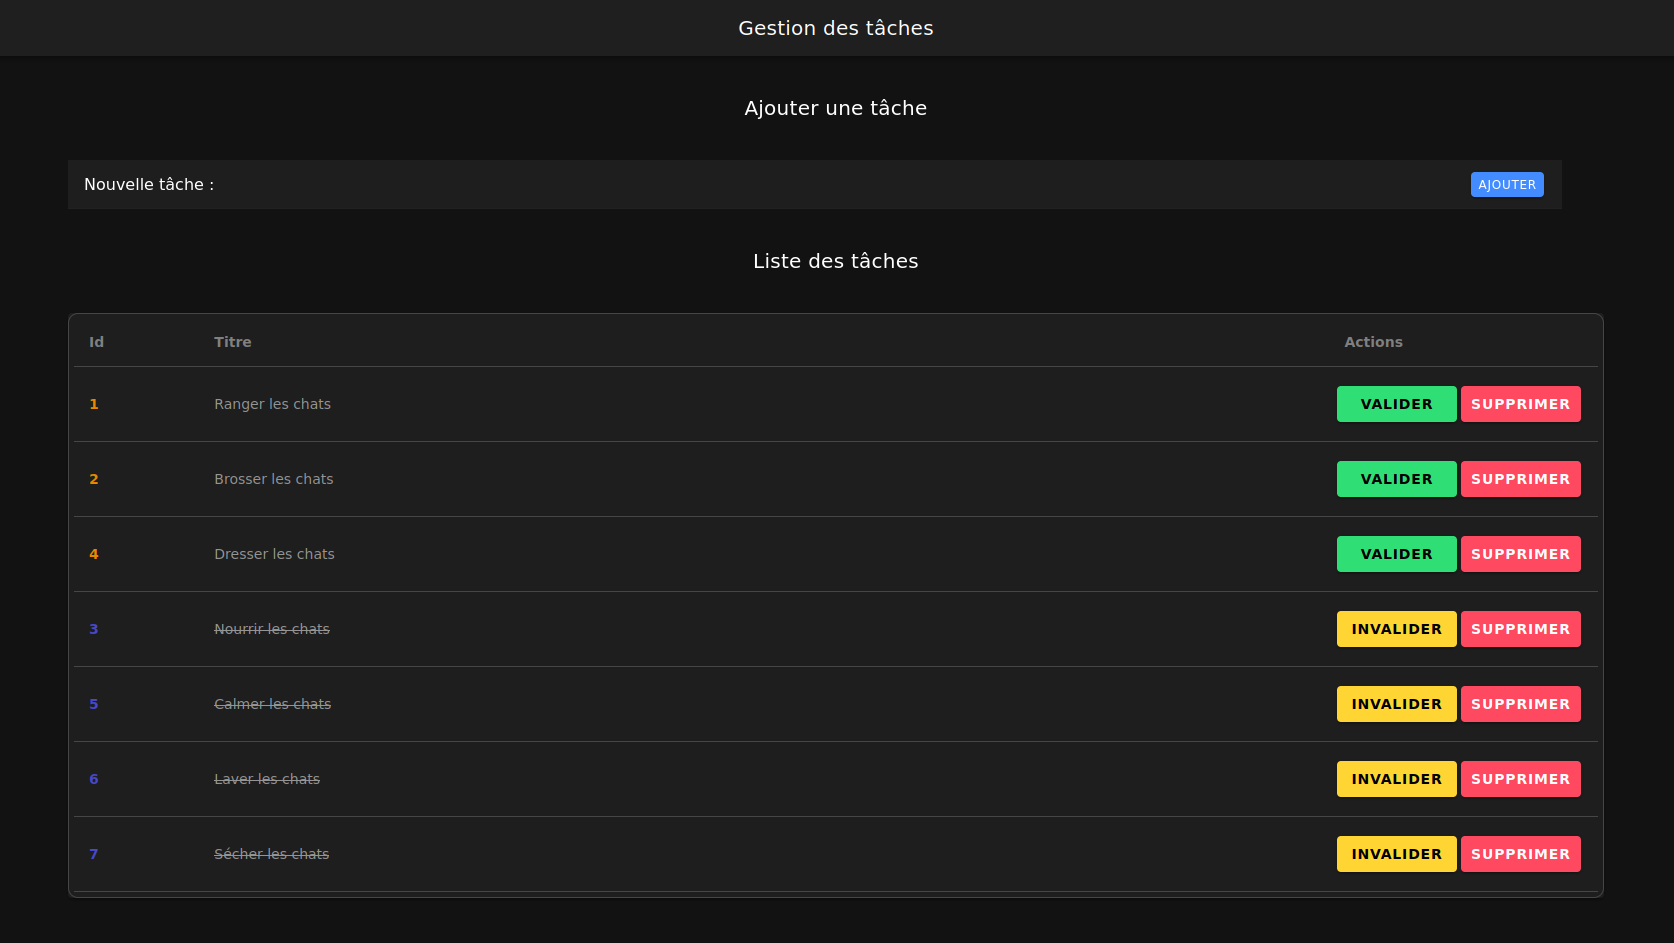
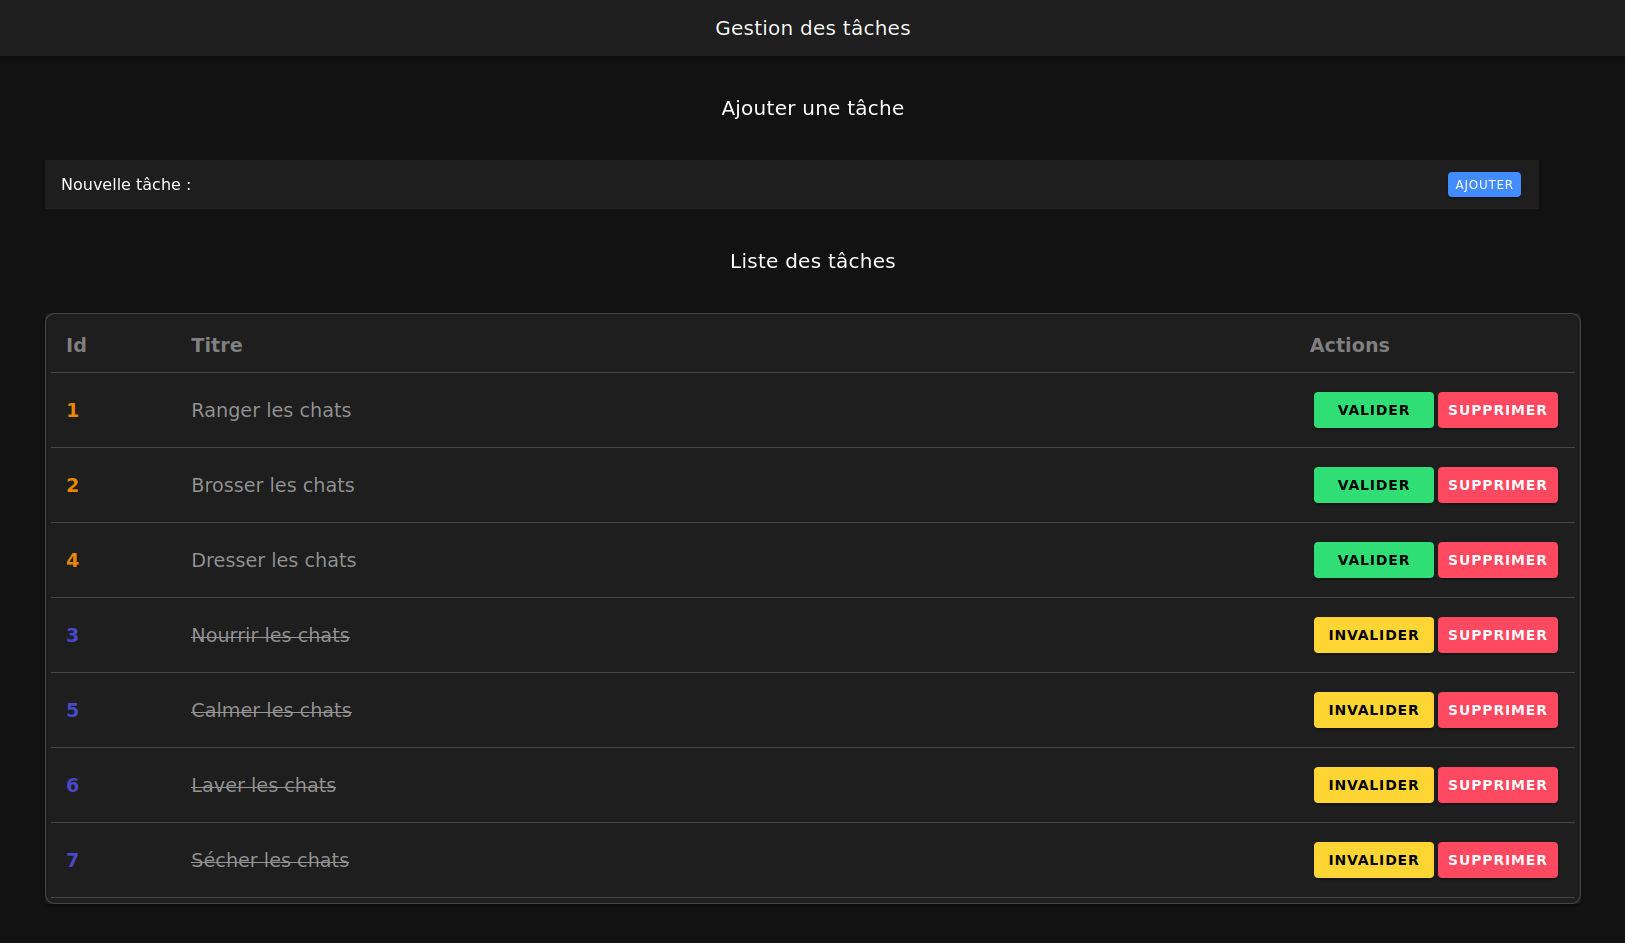
css +++++

diff --git a/src/pages/Home.tsx b/src/pages/Home.tsx
@@ -11,7 +11,8 @@ import {
   IonGrid,
   IonRow,
   IonCol,
-  IonCard
+  IonCard,
+  IonText
 } from "@ionic/react";
 //import ExploreContainer from '../components/ExploreContainer';
 import "./Home.css";
@@ -126,11 +127,6 @@ const Home: React.FC = () => {
         </IonToolbar>
       </IonHeader>
       <IonContent fullscreen>
-        <IonHeader collapse="condense">
-          <IonToolbar>
-            <IonTitle size="large">Gestion des tâches</IonTitle>
-          </IonToolbar>
-        </IonHeader>
         <IonTitle size="large" className="text-center title-margin">Ajouter une tâche</IonTitle>
         <IonItem className="form-new-task">
           <IonLabel>Nouvelle tâche :</IonLabel>
@@ -143,16 +139,16 @@ const Home: React.FC = () => {
           </IonButton>
         </IonItem>
         <IonTitle size="large" className="text-center title-margin">Liste des tâches</IonTitle>
-        <IonCard className="div-tasks">
+        <IonCard className="card-tasks">
           <IonGrid className="table-tasks">
             <IonRow className="rows-tasks">
-              <IonCol size="1"><strong className="text-grey">Id</strong></IonCol>
-              <IonCol size="5"><strong className="text-grey">Titre</strong></IonCol>
-              <IonCol className="actions-col-head"><strong className="text-grey">Actions</strong></IonCol>
+              <IonCol size="1"><IonText className="font-bold text-grey">Id</IonText></IonCol>
+              <IonCol size="5"><IonText className="font-bold text-grey">Titre</IonText></IonCol>
+              <IonCol className="actions-col-head"><IonText className="font-bold text-grey">Actions</IonText></IonCol>
             </IonRow>
             {tasks.map((task) => (
               <IonRow className="rows-tasks" key={task.id}>
-                <IonCol size="1"><strong  className={task.completed ? "text-blue" : "text-orange"}>{task.id}</strong></IonCol>
+                <IonCol size="1"><IonText  className={task.completed ? "font-bold text-blue" : "font-bold text-orange"}>{task.id}</IonText></IonCol>
                 <IonCol
                   size="5"
                   className={task.completed ? "checked" : ""}

diff --git a/src/pages/Home.css b/src/pages/Home.css
@@ -1,4 +1,4 @@
-.div-tasks {
+.card-tasks {
     display: flex;
     flex-direction: column;
     align-items: center;
@@ -7,13 +7,13 @@
     margin-right: auto;
     margin-bottom: 40px;
     margin-top: 40px;
+    font-size: larger;
 }
 
 .table-tasks {
     margin-left: auto;
     margin-right: auto;
     width: 100%;
-    border-collapse: collapse;
     text-align: left;
     border : 1px solid rgb(70, 70, 70);
     border-radius: 10px;
@@ -71,9 +71,13 @@
 .actions-col-head {
     display: flex;
     justify-content: end;
-    margin-right: 180px;
+    margin-right: 170px;
 }
 
 .title-margin {
     margin-top: 40px;
+}
+
+.font-bold {
+    font-weight: bold;
 }
